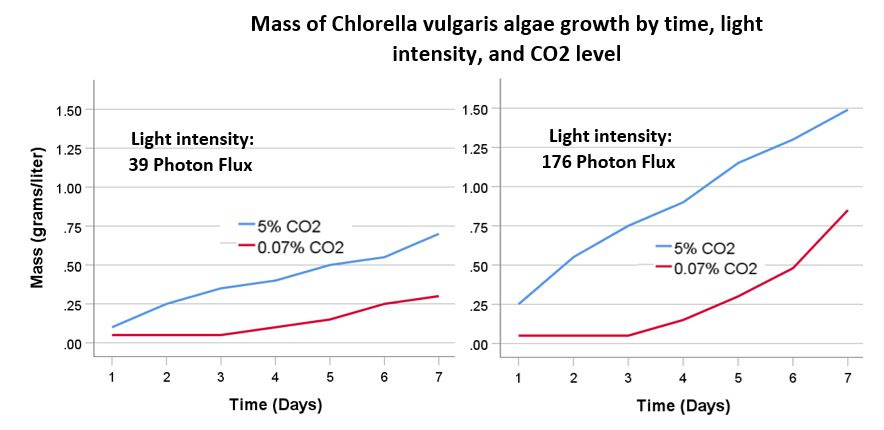
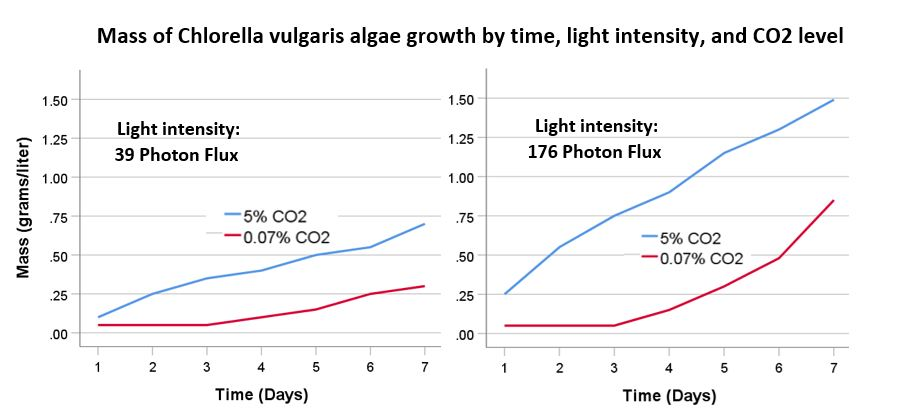
eds

diff --git a/algae/index.html b/algae/index.html
@@ -148,7 +148,7 @@
           <div id="page4" class="page">
 
 <b>Effect of light intensity on algae growth.</b> 
-
+ 
 The graph below shows the growth rate of the species "Chlorella sorokiniana" algae, at different temperatures. 
 As the temperature increases from 14 degrees celsius to 36 degrees celsius, the growth rate increases. 
 This is true for all light intensities. 
@@ -165,6 +165,15 @@ standing outside in an open field on a bright cloudless day), the growth rate of
 
             </div>
 
+            <div id="page5" class="page">
+
+                <b>Effect of carbon dioxide on algae growth.</b> As you might expect, algae grows better with higher levels of 
+                dissolved CO<sub>2</sub> in the water. As shown in the graph below, algae of the species Chlorella vulgaris
+                grows more at higher CO<sub>2</sub> levels when light intensity is lower (39 photon flux, the brightness of a cloudy day) and 
+                higher (176 photon flux, "full daylight (not direct sun)").
+
+
+                <img style='text-align:center' src='AlgaeGrowth_LightIntensityCO2.JPG' height='400' text-align='center'>
 
     </div>
 
